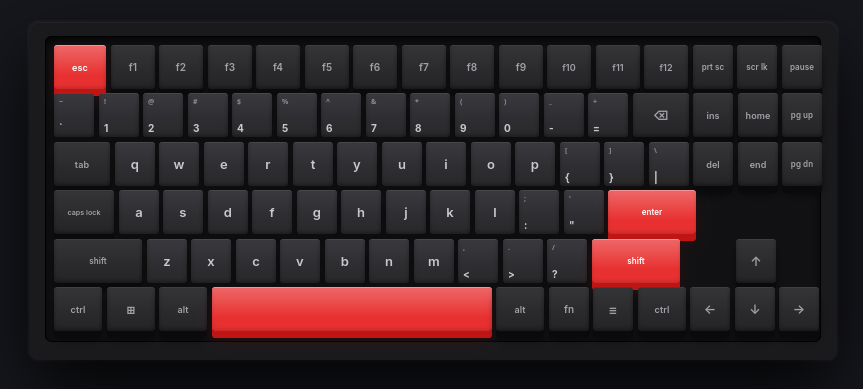
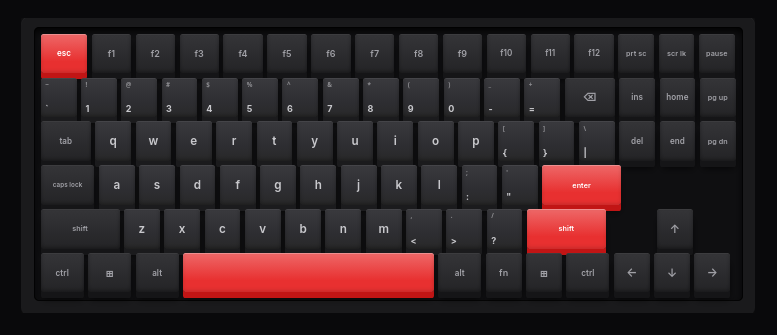
feat: add Apple Magic Keyboard variant and update README documentation with visual comparisons

Changed region(s): [[0.0309, 0.0896, 0.9575, 0.8955], [0.0927, 0.6567, 0.1236, 0.6866]]

diff --git a/README.md b/README.md
@@ -2,7 +2,18 @@
 
  A simple yet powerful mechanical keyboard component for react with multiple key sounds 
 
-![React Keyboards Preview](./assets/preview-keychron-c3.png)
+<table width="100%">
+  <tr>
+    <td width="50%" align="center">
+      <b>Keychron C3 Variant</b><br/>
+      <img src="https://raw.githubusercontent.com/HyperAfnan/react-keyboard/main/assets/preview-keychron-c3.png" alt="Keychron C3 Preview" width="100%"/>
+    </td>
+    <td width="50%" align="center">
+      <b>Apple Magic Keyboard Variant</b><br/>
+      <img src="https://raw.githubusercontent.com/HyperAfnan/react-keyboard/main/assets/preview-apple-magic-keyboard.png" alt="Apple Magic Keyboard Preview" width="100%"/>
+    </td>
+  </tr>
+</table>
 
 ## Installation
 
@@ -43,7 +54,7 @@ export default App;
 
 | Prop | Type | Default | Description |
 |---|---|---|---|
-| `variant` | `"keychron-c3"` | `"keychron-c3"` | The structural layout variant of the keyboard. |
+| `variant` | `"keychron-c3" \| "apple-magic"` | `"keychron-c3"` | The structural layout variant of the keyboard. |
 | `accent` | `"teal" \| "pink" \| "orange" \| "purple" \| "blue" \| "red"` | `"red"` | The highlight color accent applied to special keys (Esc, Enter, Spacebar, active pressed keys). |
 | `soundPack` | `"cherry-blue" \| "cherry-brown" \| "cherry-red" \| "cherry-black" \| "topre" \| "creams" \| "none"` | `"cherry-blue"` | The mechanical switch sound profile to trigger on keypress. Use `"none"` to mute switch sound. |
 | `soundEnabled` | `boolean` | `true` | Globally toggles sound output. |
@@ -58,10 +69,6 @@ export default App;
 - `topre`: Topre - Thocky, tactile, premium feel.
 - `creams`: NovelKeys Creams - Linear and buttery-smooth.
 - `none`: Silent - No sound output.
-
-## Future Plans
-
-* **Apple Magic Keyboard**: A chiclet-style ultra-thin layout with membrane-like acoustics.
 
 ## License
 